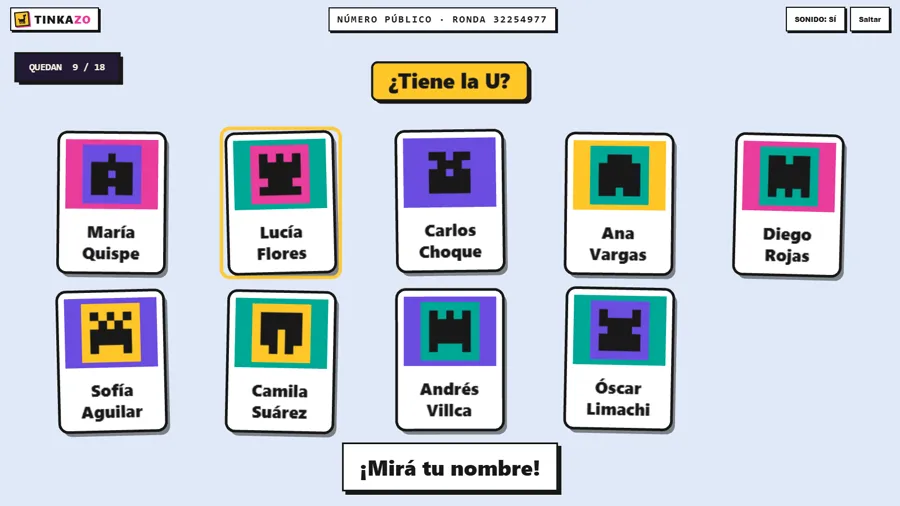
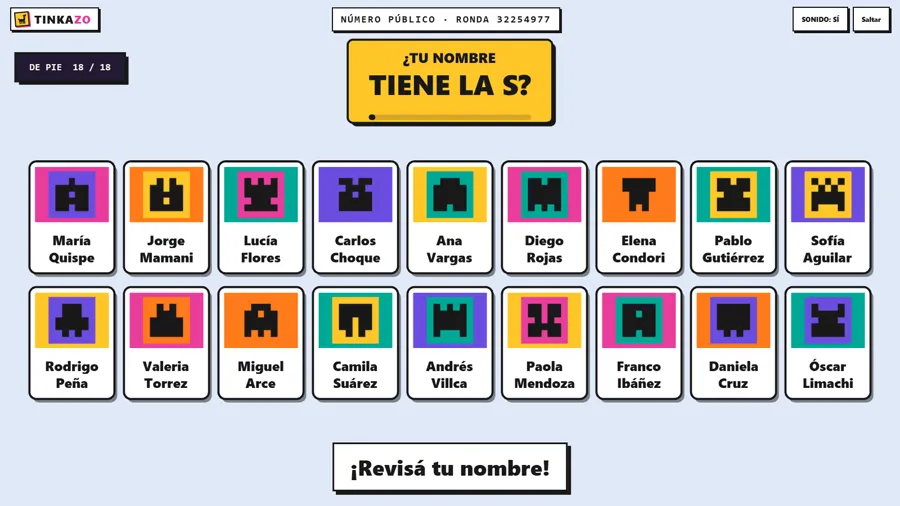
Página de juegos: De pie, con la captura de la sala de pie

diff --git a/juegos.html b/juegos.html
@@ -164,11 +164,11 @@
     <article class="juego">
       <picture>
         <source srcset="/juegos/quien-light.webp" media="(prefers-color-scheme: light)" />
-        <img src="/juegos/quien.webp" width="900" height="506" loading="lazy" alt="¿Quién es?" />
+        <img src="/juegos/quien.webp" width="900" height="506" loading="lazy" alt="De pie" />
       </picture>
       <div class="juego-txt">
-        <span class="num" style="background:var(--magenta)" data-i="jgQuienN">¿Quién es?</span>
-        <p data-i="jgQuienB">Todos los nombres en cartas, con su cara. En cada turno se pregunta por una letra y se dan vuelta las cartas que no coinciden con el nombre que salió, hasta que queda una sola. Las preguntas se eligen sabiendo quién ganó: el juego no adivina, cuenta. Hasta doscientas.</p>
+        <span class="num" style="background:var(--magenta)" data-i="jgQuienN">De pie</span>
+        <p data-i="jgQuienB">Todos de pie. Cada uno revisa su propio nombre: una letra, un número, la mitad del abecedario o cuántas letras tiene. Los que no siguen se sientan, y el último de pie gana. Hasta doscientas.</p>
       </div>
     </article>
   </section>
